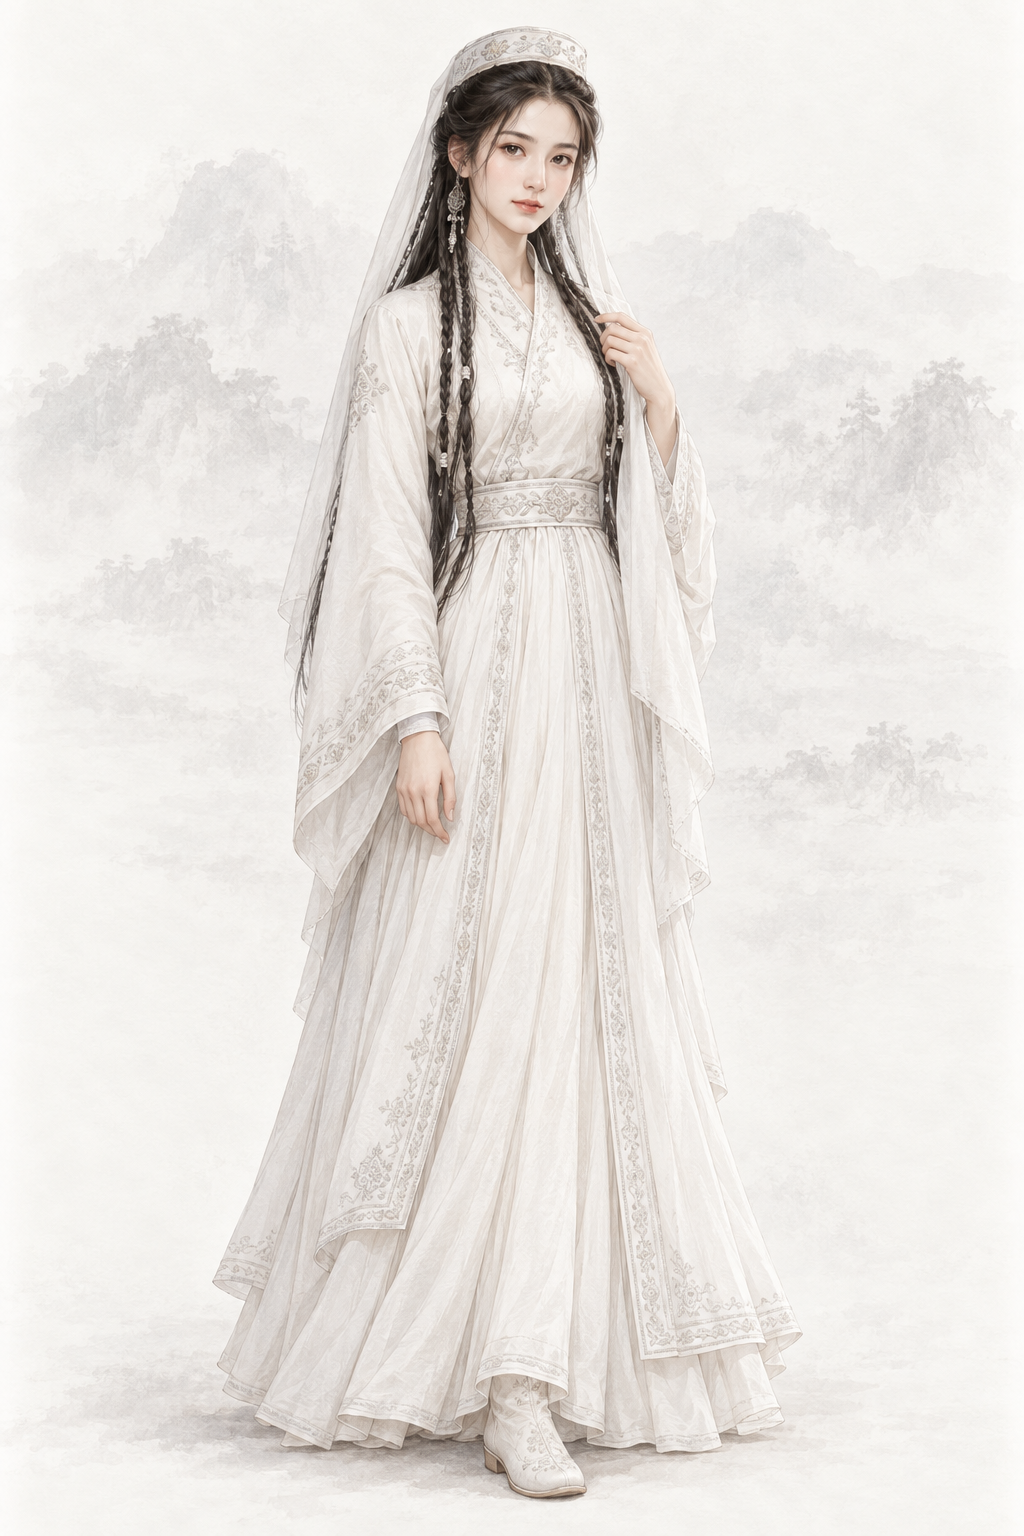
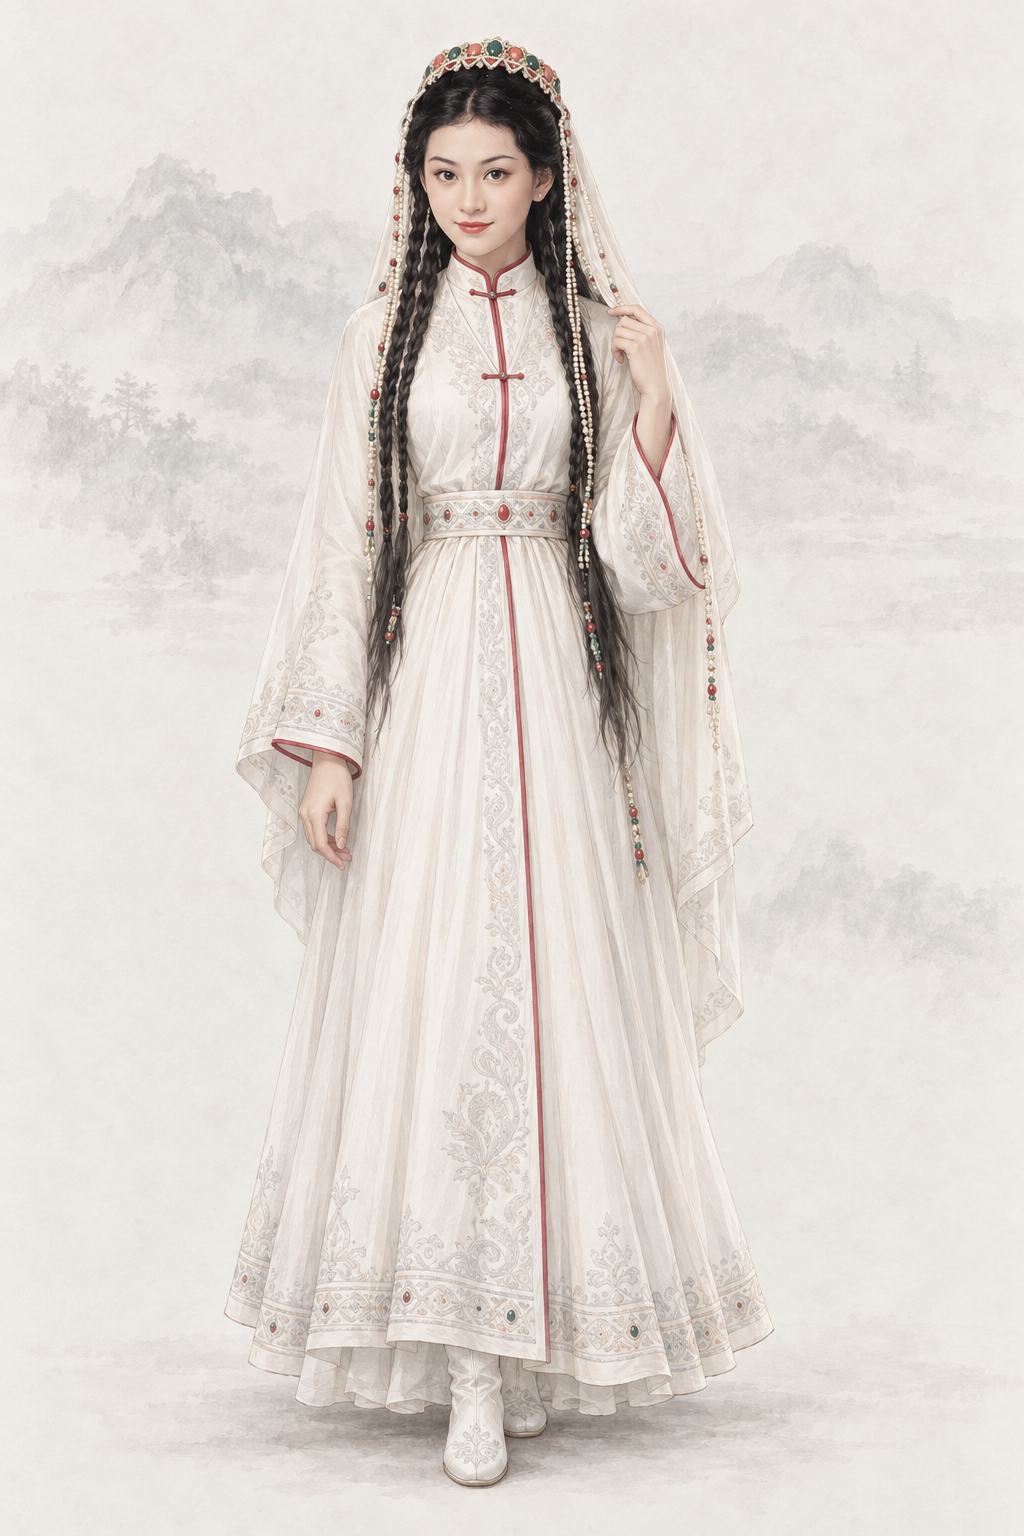
assets(character): por_npc_kasili__ch12_youth_prepalace_base 喀丝丽（codex · AR-32 经典剧照重出）
1976 年 TVB《书剑恩仇录》剧照 1 张 + 基线；提示词写回「## Gemini 提示词」，上一版留作历史，frontmatter 加 classic_ref。
第 2 次出图：第 1 次脸偏通用美女模板、不像剧照，改写脸型描写后重出

diff --git a/assets/default/prompts/characters/ch12-shujian/npc_kasili.md b/assets/default/prompts/characters/ch12-shujian/npc_kasili.md
@@ -13,9 +13,16 @@ references:
     use: approved，当前工作副本 manifest 已批准；仅拟参考纸底、光线、笔触与设色，不沿用面容、体型、服饰或道具
 status: new
 redo_reason: "书剑女主尚无立绘；按原著「白衣如雪、肌肤胜雪、漆黑长发、眼睛像星星一样亮」补出，画成成年女子并与霍青桐区分。"
-reference_upload:
-- assets/default/baseline/character/female/ref_npc_wangyuyan__ch01_base01.png
 codex_prompt_rev: 2026-10-02
+classic_ref:
+  version: "1976 年 TVB《书剑恩仇录》"
+  stills:
+  - ".agents/coord/imagegen-reference/identity-20261001/shujian/classic1976-20261002-prep_audit/kasili-1976-yuanan-thepaper.jpg"
+  note: "剧照缩到长边 1024 的 JPEG 上传，放在两张同性别基线之前（AR-32）；kasili-1976-yuanan-thepaper.jpg 裁切框 (0.0, 0.0, 1.0, 0.93)"
+reference_upload:
+- .agents/coord/imagegen-reference/identity-20261001/shujian/classic1976-20261002-prep_audit/kasili-1976-yuanan-thepaper.jpg
+- assets/default/baseline/character/female/ref_npc_wangyuyan__ch01_base01.png
+- assets/default/baseline/character/female/ref_npc_xiaolongnv__ch03_base01.png
 ---
 
 <!-- full-coverage-import:current-policy:v1 -->
@@ -28,6 +35,26 @@ codex_prompt_rev: 2026-10-02
 # 喀丝丽 · 《书剑恩仇录》（ch12）
 
 ## Gemini 提示词
+
+> 2026-10-02 AR-32 经典剧照重出（6 号出图员，codex exec · image_gen 出图）：上传该角色经典影视版剧照 1 张（1976 年 TVB《书剑恩仇录》：kasili-1976-yuanan-thepaper.jpg）在前、两张同性别基线在后。剧照只借鉴发型、服饰、配色、标志道具、气质与面部特征，重新绘制成项目画风，不照搬照片的构图、光影和姿势；人物一律成年。提示词里不写演员名。上一版提示词保留在下一节作历史。
+
+```text
+生成一张 2:3 竖幅全身人物立绘：单人、单一视角、完整全身——头顶、双手、双脚和手中器物的两端都在画面内，四周留出自然空白；人物站姿自然，身体基本朝向正面，头部端正（不歪头、不仰不俯），镜头平视。
+【参考图】随提示词上传 3 张参考图。第 1 张参考图是该角色经典影视造型的剧照：借鉴其发型、服饰、配色、标志道具、气质和面部特征，让人一眼认出是这个角色；但必须重新绘制成项目画风，不要照片质感，不要照搬剧照的构图、光影、背景和姿势，也不要做成照片修图。剧照与下文文字不一致的地方（年龄、所处阶段、帽饰与衣装细节、手中器物），以下文文字为准；画中人一律是成年人。最后两张是本项目画风基线：画风、用色、光线、质感和暖浅灰纸底加淡水墨背景以它们为准。
+【画风】写实手绘古风人物插画，与本项目写实武侠角色立绘同一画风，像功力深厚的画师用细腻笔触画出的真实美人。手绘插画质感，不是 CG 渲染：不要过度光滑的皮肤、完美对称的五官、塑料高光、过度锐利的发丝；保留自然的笔触和细微不完美。肌肤细腻自然，看得见极细的肤理和自然的左右不对称，不磨皮、不油亮、不打粉；头发是一缕缕自然的发丝和少量碎发；布料看得出经纬纹理、厚薄和自然垂坠的褶皱，干净完整；整体设色低饱和、雅致；柔和的自然光从左上方照来，明暗过渡自然，不打舞台光、轮廓光或美颜柔光。不是照片，不是三维渲染，不是动漫或游戏 CG，也不是油画（没有厚涂笔触和画布纹理）。
+【背景】不透明的暖浅灰色纸底，只在远处有极淡的水墨远山和薄雾，大面积留白；人物与背景明暗分明、轮廓边缘干净完整（后续要自动抠图），水墨和纸纹只在背景里，不侵入人物和衣服；脚下只有很淡的一点接触阴影。
+【人物】喀丝丽（香香公主），金庸《书剑恩仇录》的女主角，回部首领木卓伦的小女儿、霍青桐的妹妹，天真纯洁，美得令人不敢逼视，在被俘入宫之前。
+【年龄与体态】约二十岁的成年女子，体态纤细修长、自然柔和，约七头身，成年女性的身体比例。
+【经典造型】要一眼认出是香香公主喀丝丽——一身雪白回疆长衣、许多细辫、镶宝石垂珠串的白绣花小帽和素白头巾，天真纯洁、美得令人不敢逼视；绝美、空灵。
+【面容】脸以剧照为底子——保留剧照里这个角色的脸型、眉眼、鼻唇的比例关系和神气，画成成年人；照剧照里的脸：维吾尔族年轻女子，两颊饱满、下巴圆润的鹅蛋脸，浓而弯的眉毛，笑起来嘴角上扬、两颊鼓起；眉毛细长微弯；一双大而清澈的眼睛，黑亮得像夜空里的星星，眼神纯真好奇；眼窝略深，睫毛长；鼻梁秀挺；嘴唇柔软自然；肌肤白得像雪，带极淡的红晕。和姐姐霍青桐有几分相像，但更柔和、更不设防，少了英气。
+【发式】漆黑的长发编成许多细辫，披在肩前和背后；头戴一顶白色绣花小帽，帽沿镶一圈红绿小宝石，两侧垂下几串细珍珠串，帽后垂下一幅素白头巾，不遮脸。
+【服饰】一身雪白的回疆长衣长裙，立领和前襟镶红色细边，长袖，裙长及踝，只有极淡的银白色刺绣；白色软靴；衣料厚实不透明。
+【道具与姿态】不拿兵器；双手空着，一手轻轻捏着头巾的边。安静地站着，头正，目光清澈地望向前方，带一点好奇的微笑。
+【不要】画面里不要任何文字、题款、印章、签名、水印、台标、边框、分格或多视图；不要第二个人；不要幼态（童颜、娃娃脸、婴儿肥、儿童或少年身材、大头小身）；不要塑料感皮肤、磨皮美颜、网红脸（尖下巴大眼高鼻的模板脸）、过度对称、浓妆、偶像式打光、蜡像感；不要照片质感、三维渲染或动漫大眼；不要歪头、斜镜头；不要多指、缺指（设定的伤残除外）、手与器物粘连或悬空；汉式交领必须右衽（穿着者的左襟压在右襟上），不要左衽（设定为少数民族服制的除外），不要水平镜像；不要现代物品、日式服饰或日本刀、发光特效、法阵或能量光。不要照片或照片修图的质感，不要照搬剧照的构图、光影、背景和姿势，不要剧照里的字幕、台标和水印。不要浓妆、性感化或暴露的衣着；不要把香气画成烟雾、花瓣或蝴蝶；不要透明纱衣、露腰；不要清宫服饰、婚服；不要艳丽浓妆；不要和霍青桐一模一样的脸。不要尖下巴、大眼睛的网红模板脸或洋娃娃脸。
+【画风基线】随提示词上传的参考图里，最后两张是本项目的立绘画风基线：只参考它们的画风、用色、光线、质感和暖浅灰纸底加淡水墨的背景处理，整体画风必须与它们一致——精细写实的数字手绘插画，不是油画，不要厚涂笔触和画布纹理。基线图只取画风，不取长相：不要照搬基线图里人物的长相、年龄、发型、服饰和姿势。
+```
+
+## 上一版 Gemini 提示词（2026-10-02 文字版；AR-32 经典剧照重出前，历史，不再用于出图）
 
 > 2026-10-02 Codex 人物线 2 号（AR-31）：在审核组稿上补一行「经典形象」（借鉴公认经典造型的发式、装束、配色、标志道具与气质，只写文字，不写演员名、不上传剧照），并补去 AI 化要求。本轮出图用下面第一个代码块；审核组原稿保留在其后的「审核组原稿」小节作历史。
 
